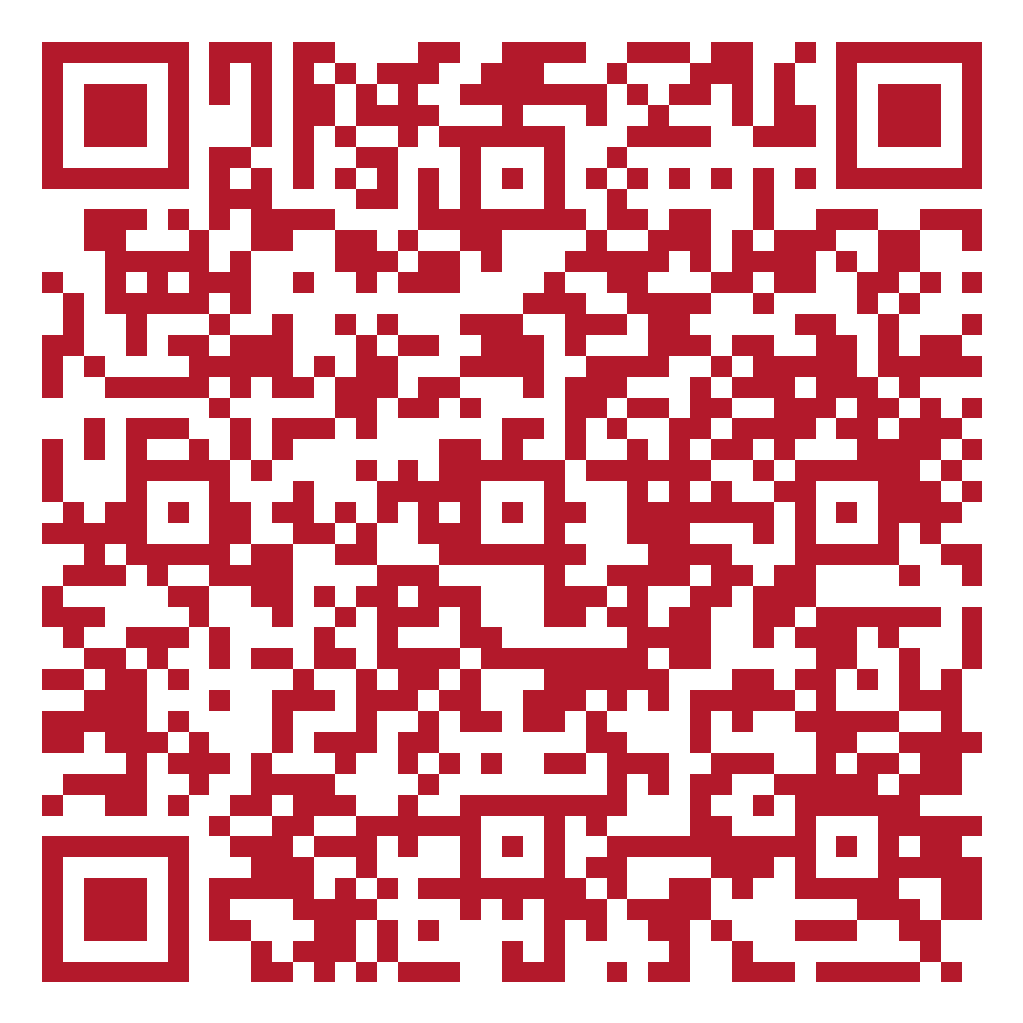
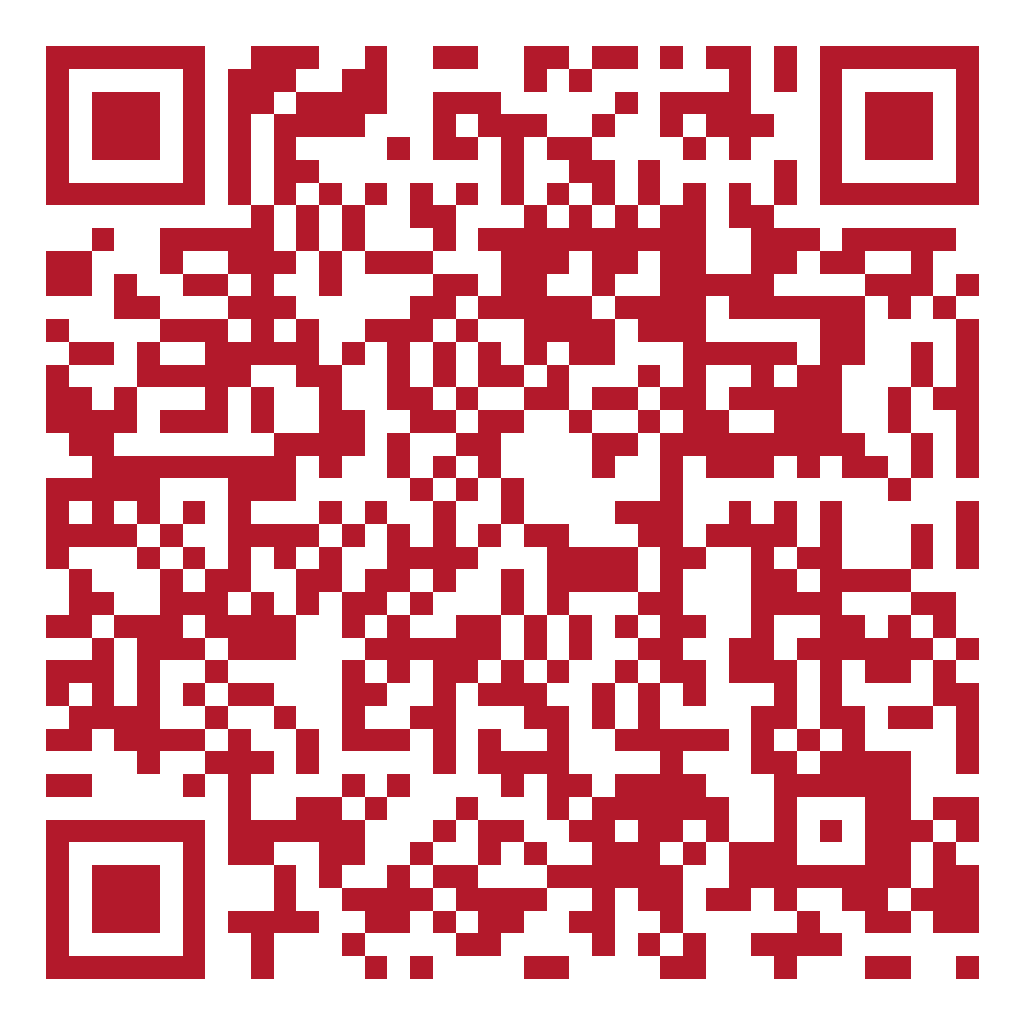
changes

diff --git a/scripts/generate-qrs.js b/scripts/generate-qrs.js
@@ -7,9 +7,11 @@ import QRCode from 'qrcode';
 const __filename = fileURLToPath(import.meta.url);
 const __dirname = path.dirname(__filename);
 
-const BASE_URL = 'https://innovation-showcase-2026.github.io/TechQUIZ/';
+const BASE_URL = 'https://innovationshowcase26.github.io/TechQUIZ/';
 const OUTPUT_DIR = path.join(__dirname, '..', 'public', 'qr-codes');
 const ROOT_QR_DIR = path.join(__dirname, '..', 'qr-codes');
+const ROOT_DIR = path.join(__dirname, '..');
+const PUBLIC_DIR = path.join(__dirname, '..', 'public');
 
 // Ensure output directories exist
 if (!fs.existsSync(OUTPUT_DIR)) {
@@ -32,7 +34,7 @@ const BOOTHS = [
 ];
 
 async function generateAll() {
-  console.log('Generating QR codes for 9 Booths...\n');
+  console.log(`Generating QR codes pointing to ${BASE_URL} for 9 Booths...\n`);
 
   for (const booth of BOOTHS) {
     const boothUrl = `${BASE_URL}?booth=${booth.number}`;
@@ -70,7 +72,34 @@ async function generateAll() {
     console.log(`✓ Booth ${booth.number}: ${booth.title} -> ${boothUrl}`);
   }
 
-  console.log('\nAll 9 QR codes successfully generated in public/qr-codes/ and qr-codes/!');
+  // Also generate root base URL QR code
+  const rootPng = path.join(ROOT_DIR, 'qr-code.png');
+  const rootSvg = path.join(ROOT_DIR, 'qr-code.svg');
+  await QRCode.toFile(rootPng, BASE_URL, {
+    width: 1024,
+    margin: 2,
+    color: {
+      dark: '#B3192B',
+      light: '#FFFFFF',
+    },
+    errorCorrectionLevel: 'H',
+  });
+  await QRCode.toFile(rootSvg, BASE_URL, {
+    type: 'svg',
+    margin: 2,
+    color: {
+      dark: '#B3192B',
+      light: '#FFFFFF',
+    },
+    errorCorrectionLevel: 'H',
+  });
+  if (fs.existsSync(PUBLIC_DIR)) {
+    fs.copyFileSync(rootPng, path.join(PUBLIC_DIR, 'qr-code.png'));
+    fs.copyFileSync(rootSvg, path.join(PUBLIC_DIR, 'qr-code.svg'));
+  }
+  console.log(`✓ Root App: ${BASE_URL} -> qr-code.png / qr-code.svg`);
+
+  console.log('\nAll QR codes successfully generated in public/qr-codes/, qr-codes/, and root!');
 }
 
 generateAll().catch(console.error);

diff --git a/public/qr-code.html b/public/qr-code.html
@@ -492,8 +492,8 @@
         <div class="url-section">
           <div class="url-chip">
             <span>🔗</span>
-            <a href="https://innovation-showcase-2026.github.io/TechQUIZ/?booth=1" target="_blank" class="url-text" id="targetUrl">
-              https://innovation-showcase-2026.github.io/TechQUIZ/?booth=1
+            <a href="https://innovationshowcase26.github.io/TechQUIZ/?booth=1" target="_blank" class="url-text" id="targetUrl">
+              https://innovationshowcase26.github.io/TechQUIZ/?booth=1
             </a>
             <button class="btn-copy-chip" onclick="copyCurrentUrl()">📋 Copy</button>
           </div>
@@ -508,7 +508,7 @@
 
     <!-- Control Toolbar -->
     <div class="controls-panel">
-      <a href="https://innovation-showcase-2026.github.io/TechQUIZ/?booth=1" target="_blank" class="btn-primary" id="openAppBtn">
+      <a href="https://innovationshowcase26.github.io/TechQUIZ/?booth=1" target="_blank" class="btn-primary" id="openAppBtn">
         <span>🚀 Open Selected Booth Quiz in Browser</span>
       </a>
 
@@ -538,7 +538,7 @@
   </div>
 
   <script>
-    const BASE_URL = "https://innovation-showcase-2026.github.io/TechQUIZ/";
+    const BASE_URL = "https://innovationshowcase26.github.io/TechQUIZ/";
 
     const BOOTHS = [
       { number: 1, title: 'Generative AI & LLMs', icon: '🤖', desc: 'Explore neural architectures, prompt engineering, RAG, and frontier models.' },

diff --git a/qr-code.html b/qr-code.html
@@ -492,8 +492,8 @@
         <div class="url-section">
           <div class="url-chip">
             <span>🔗</span>
-            <a href="https://innovation-showcase-2026.github.io/TechQUIZ/?booth=1" target="_blank" class="url-text" id="targetUrl">
-              https://innovation-showcase-2026.github.io/TechQUIZ/?booth=1
+            <a href="https://innovationshowcase26.github.io/TechQUIZ/?booth=1" target="_blank" class="url-text" id="targetUrl">
+              https://innovationshowcase26.github.io/TechQUIZ/?booth=1
             </a>
             <button class="btn-copy-chip" onclick="copyCurrentUrl()">📋 Copy</button>
           </div>
@@ -508,7 +508,7 @@
 
     <!-- Control Toolbar -->
     <div class="controls-panel">
-      <a href="https://innovation-showcase-2026.github.io/TechQUIZ/?booth=1" target="_blank" class="btn-primary" id="openAppBtn">
+      <a href="https://innovationshowcase26.github.io/TechQUIZ/?booth=1" target="_blank" class="btn-primary" id="openAppBtn">
         <span>🚀 Open Selected Booth Quiz in Browser</span>
       </a>
 
@@ -538,7 +538,7 @@
   </div>
 
   <script>
-    const BASE_URL = "https://innovation-showcase-2026.github.io/TechQUIZ/";
+    const BASE_URL = "https://innovationshowcase26.github.io/TechQUIZ/";
 
     const BOOTHS = [
       { number: 1, title: 'Generative AI & LLMs', icon: '🤖', desc: 'Explore neural architectures, prompt engineering, RAG, and frontier models.' },

diff --git a/src/services/firebaseService.ts b/src/services/firebaseService.ts
@@ -15,12 +15,12 @@ import { REQUIRED_BOOTHS_TO_WIN } from '../data/boothsConfig';
 
 // Web app's Firebase configuration
 const firebaseConfig = {
-  apiKey: "AIzaSyBaweGLFMHeReP5GlqXOUA5Gro5ZahFqVE",
-  authDomain: "innovation-showcase-2026.firebaseapp.com",
-  projectId: "innovation-showcase-2026",
-  storageBucket: "innovation-showcase-2026.firebasestorage.app",
-  messagingSenderId: "577856466009",
-  appId: "1:577856466009:web:7fe373b4d1771de3655548",
+  apiKey: "AIzaSyDN01MPv0CZyrytoGiE-ncNTbN1do5chPY",
+  authDomain: "innovation-showcase-2026-d19de.firebaseapp.com",
+  projectId: "innovation-showcase-2026-d19de",
+  storageBucket: "innovation-showcase-2026-d19de.firebasestorage.app",
+  messagingSenderId: "178394050941",
+  appId: "1:178394050941:web:7c85ec9b28571981ec1c14"
 };
 
 // Initialize Firebase singleton
